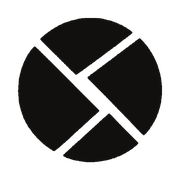
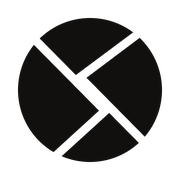
refactor(brand): rebuild the mark from geometry instead of tracing the glow
The previous version was traced from the original raster, which still carried
its neon glow. Ramer-Douglas-Peucker on a blurred edge produces exactly what you
would expect: arcs that are not quite circular, cuts that are not quite straight,
and vertices rounded by however far the glow bled. It read as untidy because it
was untidy.

This measures the design instead of copying its pixels. Fitting a circle to the
outer boundary gives a residual standard deviation of 1.01px, so the outline was
always meant to be a true circle. Clustering each fragment's edge pixels by
tangent direction recovers two straight cuts per piece; every fragment turns out
to share one cut direction (135.3 degrees) while the second splits into two
values 5.5 degrees apart -- that asymmetry is what makes it read as a pinwheel
rather than a pie chart, so it is kept.

Each piece is now the exact intersection of the circle with two half-planes:
a real arc, two real straight edges, a sharp vertex. Two things were tidied
because they were noise rather than intent: the four parallel cuts are snapped
to one shared angle, and the four gaps -- measured at 58.0, 59.0, 63.6 and 57.4
units -- are equalised.

Measured against the original silhouette the reconstruction scores 0.980 IoU,
so nothing about the composition moved. What changed is that the path data went
from 6,286 bytes of polygon soup to 397 bytes of four arcs, the inline page
weight dropped by 11.8KB, and it now stays crisp at any size instead of only
[…]

diff --git a/site/index.html b/site/index.html
@@ -46,7 +46,7 @@
 
     <header class="site-header" data-header>
       <a class="brand" href="#top" aria-label="Fragment home">
-        <svg class="mark" viewBox="0 0 64 64" width="28" height="28" fill="currentColor" aria-hidden="true"><path d="M7.2,12.7 7.56,12.7 7.8,12.82 8.77,13.79 8.89,13.79 9.13,14.03 9.13,14.16 9.86,14.88 9.98,14.88 10.22,15.12 10.22,15.24 10.71,15.73 10.83,15.73 11.31,16.21 11.31,16.33 11.67,16.7 11.8,16.7 12.4,17.3 12.4,17.42 12.64,17.66 12.76,17.66 13.37,18.27 13.37,18.39 13.61,18.63 13.73,18.63 35.99,40.89 36.11,41.13 35.99,41.5 35.39,42.1 35.27,42.1 34.18,43.19 34.06,43.19 33.45,43.8 33.33,43.8 32.85,44.28 32.85,44.4 32.73,44.4 32.24,44.88 32.12,44.88 31.76,45.37 31.64,45.37 30.55,46.46 30.43,46.46 29.34,47.55 29.22,47.55 28.73,48.15 28.61,48.15 27.52,49.24 27.4,49.24 26.31,50.33 26.19,50.33 21.72,54.56 21.6,54.56 20.75,55.41 20.63,55.41 17.72,58.07 17.6,58.07 16.27,59.16 15.55,59.04 15.18,58.68 15.06,58.68 14.82,58.43 14.58,58.43 13.01,57.22 12.64,57.1 11.92,56.38 11.43,56.14 8.17,52.99 8.17,52.87 6.47,51.05 6.35,50.69 5.87,50.21 5.63,49.72 4.42,48.15 4.29,47.67 3.45,46.46 3.33,45.97 2.36,44.16 2.24,43.55 2,43.19 2,42.95 1.88,42.83 1.88,42.59 1.75,42.47 1.75,42.22 1.63,42.1 1.63,41.86 1.27,41.01 1.15,40.17 1.03,40.05 0.91,39.32 0.79,39.2 0.79,38.71 0.54,38.23 0.54,37.63 0.42,37.5 0.42,36.54 0.3,36.42 0.3,34.96 0.18,34.84 0.18,32.91 0.06,32.79 0.06,32.06 0.18,31.94 0.18,29.76 0.3,29.64 0.3,28.07 0.42,27.95 0.42,26.98 0.54,26.86 0.54,26.37 0.67,26.25 0.67,25.89 0.79,25.77 0.91,24.8 1.15,24.32 1.15,23.95 1.27,23.83 1.27,23.47 1.39,23.35 1.39,22.99 1.51,22.87 1.75,21.9 2,21.53 2,21.29 2.36,20.57 2.48,19.96 2.72,19.72 2.72,19.48 3.33,18.51 3.45,17.91 3.69,17.66 4.05,16.82 4.29,16.57 4.42,16.09 4.9,15.61 5.75,14.28 7.2,12.7Z"/><path d="M53.9,9.07 54.26,9.07 55.71,10.53 55.71,10.65 56.56,11.49 56.56,11.61 57.04,12.1 57.04,12.22 57.65,12.82 58.01,13.55 58.62,14.16 58.74,14.64 59.34,15.36 59.46,15.73 59.83,16.21 59.95,16.7 60.31,17.06 60.43,17.54 60.79,18.03 60.79,18.27 61.4,19.36 61.4,19.6 61.64,19.96 61.64,20.2 62,20.93 62.12,21.53 62.37,21.9 62.37,22.26 62.73,23.11 62.73,23.59 62.85,23.71 62.97,24.44 63.21,24.92 63.21,25.41 63.33,25.53 63.46,26.5 63.58,26.62 63.7,28.43 63.82,28.55 63.82,29.76 63.94,29.88 63.94,34.36 63.82,34.48 63.82,35.69 63.7,35.81 63.58,37.63 63.46,37.75 63.46,38.23 63.33,38.35 63.21,39.2 62.97,39.68 62.97,40.05 62.73,40.53 62.73,40.89 62.61,41.01 62.25,42.34 61.88,42.95 61.64,43.92 60.43,46.34 59.95,46.94 59.71,47.55 58.86,48.64 58.62,49.24 57.04,51.05 57.04,51.18 56.68,51.54 56.56,51.54 56.2,51.9 56.2,52.02 55.71,52.02 55.35,51.66 55.23,51.66 53.66,50.09 53.66,49.97 53.29,49.6 53.17,49.6 52.08,48.39 51.96,48.39 51.96,48.27 50.87,47.18 50.87,47.06 50.03,46.34 50.03,46.22 43.98,40.05 43.98,39.92 43.74,39.68 43.61,39.68 43.01,39.08 43.01,38.96 42.04,38.11 42.04,37.99 40.11,36.05 40.11,35.93 39.86,35.69 39.74,35.69 39.14,35.09 39.14,34.96 38.41,34.24 38.29,34.24 38.17,34 34.06,29.88 34.06,29.76 33.81,29.64 33.09,28.91 33.09,28.79 32.85,28.67 32.12,27.95 32.12,27.83 31.88,27.71 31.15,26.98 30.91,26.5 31.03,26.25 31.4,25.89 31.88,25.65 32.36,25.04 33.33,24.56 33.81,24.08 34.78,23.47 35.39,22.87 35.75,22.74 36.48,22.02 37.2,21.66 37.69,21.17 38.65,20.57 39.26,19.96 39.62,19.84 40.35,19.12 41.07,18.75 42.04,17.91 42.53,17.66 43.13,17.06 43.61,16.82 44.22,16.21 44.95,15.85 45.43,15.36 45.55,15.36 45.91,15 46.52,14.64 47.12,14.03 47.49,13.91 48.09,13.31 48.82,12.95 49.91,11.98 50.39,11.74 50.99,11.13 51.72,10.77 52.08,10.4 52.08,10.28 52.81,9.92 53.9,9.07Z"/><path d="M29.58,0 35.27,0 35.39,0.12 36.6,0.12 36.72,0.24 37.32,0.24 37.44,0.36 37.81,0.36 37.93,0.48 38.29,0.48 38.41,0.6 38.78,0.6 38.9,0.73 39.26,0.73 39.38,0.85 40.35,0.97 40.47,1.09 40.83,1.09 41.32,1.33 41.68,1.33 42.28,1.69 42.53,1.69 43.37,2.06 43.74,2.06 43.98,2.3 44.46,2.42 44.95,2.66 45.19,2.9 45.79,3.02 46.52,3.39 47.12,3.87 47.61,3.99 48.94,4.96 49.54,5.2 50.75,6.29 50.75,6.65 50.63,6.9 50.51,6.9 49.78,7.62 49.18,7.98 48.7,8.47 48.21,8.71 47.73,9.19 47.24,9.44 42.89,12.82 42.53,12.95 41.8,13.67 41.68,13.67 40.47,14.64 39.98,14.88 39.5,15.36 39.38,15.36 36.6,17.54 36.11,17.78 35.63,18.27 35.15,18.51 33.69,19.72 33.33,19.84 32.73,20.45 32,20.81 29.7,22.62 29.34,22.74 28.61,23.47 28.25,23.59 26.07,25.16 25.59,25.16 24.02,23.59 23.89,23.59 23.29,22.99 23.29,22.87 23.05,22.62 22.93,22.62 22.56,22.26 22.56,22.14 21.96,21.53 21.84,21.53 21.35,21.05 21.35,20.93 20.99,20.57 20.87,20.57 20.39,20.08 20.39,19.96 20.02,19.6 19.9,19.6 19.3,18.99 19.3,18.87 18.81,18.39 18.69,18.39 18.33,18.03 18.33,17.91 17.84,17.42 17.72,17.42 17.36,17.06 17.36,16.94 17,16.57 16.88,16.57 16.27,15.97 16.27,15.85 16.03,15.73 10.34,10.04 10.34,9.92 9.98,9.56 9.98,9.32 10.1,9.07 10.83,8.35 10.95,8.35 12.4,7.02 12.88,6.78 13.49,6.17 14.22,5.81 15.06,5.08 15.67,4.84 16.39,4.23 17.12,3.99 18.33,3.15 18.93,3.02 20.51,2.18 20.75,2.18 20.87,2.06 21.11,2.06 21.23,1.94 22.93,1.45 23.29,1.21 23.65,1.21 23.77,1.09 24.14,1.09 24.26,0.97 24.74,0.97 24.86,0.85 25.71,0.73 25.83,0.6 26.56,0.48 26.68,0.36 27.28,0.36 27.4,0.24 28.01,0.24 28.13,0.12 29.46,0.12 29.58,0Z"/><path d="M40.35,42.47 40.59,42.47 40.83,42.71 40.95,42.71 42.4,44.16 42.4,44.28 43.25,45.01 43.25,45.13 44.95,46.82 44.95,46.94 45.55,47.55 45.67,47.55 45.91,47.79 45.91,47.91 53.29,55.29 53.41,55.77 52.69,56.62 52.57,56.62 52.08,57.1 51.96,57.1 51.48,57.59 51.36,57.59 50.75,58.19 50.39,58.31 50.15,58.56 50.03,58.56 49.06,59.28 48.45,59.52 47.85,60.01 46.52,60.61 46.03,60.98 45.79,60.98 45.19,61.34 44.34,61.58 43.49,62.06 43.25,62.06 42.89,62.31 42.04,62.43 41.56,62.67 41.19,62.67 40.47,63.03 39.98,63.03 39.86,63.15 39.38,63.15 39.26,63.27 38.78,63.27 38.65,63.4 38.05,63.4 37.93,63.52 37.2,63.52 37.08,63.64 36.6,63.64 36.48,63.76 35.75,63.76 35.63,63.88 34.3,63.88 34.18,64 30.06,64 29.94,63.88 28.85,63.88 28.73,63.76 28.01,63.76 27.89,63.64 27.28,63.64 27.16,63.52 25.71,63.4 25.59,63.27 24.62,63.15 23.77,62.79 23.41,62.79 22.68,62.43 22.32,62.43 22.2,62.31 21.6,62.19 21.11,61.82 20.51,61.58 20.14,61.22 20.26,60.73 20.51,60.49 20.63,60.49 21.35,59.64 21.47,59.64 23.65,57.59 23.77,57.59 24.5,56.74 24.86,56.62 25.59,55.77 26.07,55.53 26.8,54.68 27.28,54.44 30.31,51.54 30.43,51.54 32.6,49.48 32.73,49.48 33.33,48.76 33.45,48.76 34.54,47.67 34.66,47.67 35.27,47.06 35.27,46.94 35.75,46.7 36.48,45.85 36.96,45.61 37.57,44.88 37.69,44.88 38.29,44.28 38.41,44.28 40.35,42.47Z"/></svg>
+        <svg class="mark" viewBox="0 0 1000 1000" width="28" height="28" fill="currentColor" aria-hidden="true"><path d="M401.57 396.17L150.57 142.37A500 500 0 0 1 799.73 99.79Z"/><path d="M475.67 414.99L844.76 137.87A500 500 0 0 1 880.51 824.36Z"/><path d="M562.48 643.47L246.83 931.17A500 500 0 0 1 110.52 186.46Z"/><path d="M633.52 659.2L839.29 867.27A500 500 0 0 1 303.28 959.68Z"/></svg>
         <span>Fragment</span>
       </a>
       <nav aria-label="Primary navigation">
@@ -194,7 +194,7 @@
 
     <footer>
       <a class="brand" href="#top" aria-label="Back to top">
-        <svg class="mark" viewBox="0 0 64 64" width="24" height="24" fill="currentColor" aria-hidden="true"><path d="M7.2,12.7 7.56,12.7 7.8,12.82 8.77,13.79 8.89,13.79 9.13,14.03 9.13,14.16 9.86,14.88 9.98,14.88 10.22,15.12 10.22,15.24 10.71,15.73 10.83,15.73 11.31,16.21 11.31,16.33 11.67,16.7 11.8,16.7 12.4,17.3 12.4,17.42 12.64,17.66 12.76,17.66 13.37,18.27 13.37,18.39 13.61,18.63 13.73,18.63 35.99,40.89 36.11,41.13 35.99,41.5 35.39,42.1 35.27,42.1 34.18,43.19 34.06,43.19 33.45,43.8 33.33,43.8 32.85,44.28 32.85,44.4 32.73,44.4 32.24,44.88 32.12,44.88 31.76,45.37 31.64,45.37 30.55,46.46 30.43,46.46 29.34,47.55 29.22,47.55 28.73,48.15 28.61,48.15 27.52,49.24 27.4,49.24 26.31,50.33 26.19,50.33 21.72,54.56 21.6,54.56 20.75,55.41 20.63,55.41 17.72,58.07 17.6,58.07 16.27,59.16 15.55,59.04 15.18,58.68 15.06,58.68 14.82,58.43 14.58,58.43 13.01,57.22 12.64,57.1 11.92,56.38 11.43,56.14 8.17,52.99 8.17,52.87 6.47,51.05 6.35,50.69 5.87,50.21 5.63,49.72 4.42,48.15 4.29,47.67 3.45,46.46 3.33,45.97 2.36,44.16 2.24,43.55 2,43.19 2,42.95 1.88,42.83 1.88,42.59 1.75,42.47 1.75,42.22 1.63,42.1 1.63,41.86 1.27,41.01 1.15,40.17 1.03,40.05 0.91,39.32 0.79,39.2 0.79,38.71 0.54,38.23 0.54,37.63 0.42,37.5 0.42,36.54 0.3,36.42 0.3,34.96 0.18,34.84 0.18,32.91 0.06,32.79 0.06,32.06 0.18,31.94 0.18,29.76 0.3,29.64 0.3,28.07 0.42,27.95 0.42,26.98 0.54,26.86 0.54,26.37 0.67,26.25 0.67,25.89 0.79,25.77 0.91,24.8 1.15,24.32 1.15,23.95 1.27,23.83 1.27,23.47 1.39,23.35 1.39,22.99 1.51,22.87 1.75,21.9 2,21.53 2,21.29 2.36,20.57 2.48,19.96 2.72,19.72 2.72,19.48 3.33,18.51 3.45,17.91 3.69,17.66 4.05,16.82 4.29,16.57 4.42,16.09 4.9,15.61 5.75,14.28 7.2,12.7Z"/><path d="M53.9,9.07 54.26,9.07 55.71,10.53 55.71,10.65 56.56,11.49 56.56,11.61 57.04,12.1 57.04,12.22 57.65,12.82 58.01,13.55 58.62,14.16 58.74,14.64 59.34,15.36 59.46,15.73 59.83,16.21 59.95,16.7 60.31,17.06 60.43,17.54 60.79,18.03 60.79,18.27 61.4,19.36 61.4,19.6 61.64,19.96 61.64,20.2 62,20.93 62.12,21.53 62.37,21.9 62.37,22.26 62.73,23.11 62.73,23.59 62.85,23.71 62.97,24.44 63.21,24.92 63.21,25.41 63.33,25.53 63.46,26.5 63.58,26.62 63.7,28.43 63.82,28.55 63.82,29.76 63.94,29.88 63.94,34.36 63.82,34.48 63.82,35.69 63.7,35.81 63.58,37.63 63.46,37.75 63.46,38.23 63.33,38.35 63.21,39.2 62.97,39.68 62.97,40.05 62.73,40.53 62.73,40.89 62.61,41.01 62.25,42.34 61.88,42.95 61.64,43.92 60.43,46.34 59.95,46.94 59.71,47.55 58.86,48.64 58.62,49.24 57.04,51.05 57.04,51.18 56.68,51.54 56.56,51.54 56.2,51.9 56.2,52.02 55.71,52.02 55.35,51.66 55.23,51.66 53.66,50.09 53.66,49.97 53.29,49.6 53.17,49.6 52.08,48.39 51.96,48.39 51.96,48.27 50.87,47.18 50.87,47.06 50.03,46.34 50.03,46.22 43.98,40.05 43.98,39.92 43.74,39.68 43.61,39.68 43.01,39.08 43.01,38.96 42.04,38.11 42.04,37.99 40.11,36.05 40.11,35.93 39.86,35.69 39.74,35.69 39.14,35.09 39.14,34.96 38.41,34.24 38.29,34.24 38.17,34 34.06,29.88 34.06,29.76 33.81,29.64 33.09,28.91 33.09,28.79 32.85,28.67 32.12,27.95 32.12,27.83 31.88,27.71 31.15,26.98 30.91,26.5 31.03,26.25 31.4,25.89 31.88,25.65 32.36,25.04 33.33,24.56 33.81,24.08 34.78,23.47 35.39,22.87 35.75,22.74 36.48,22.02 37.2,21.66 37.69,21.17 38.65,20.57 39.26,19.96 39.62,19.84 40.35,19.12 41.07,18.75 42.04,17.91 42.53,17.66 43.13,17.06 43.61,16.82 44.22,16.21 44.95,15.85 45.43,15.36 45.55,15.36 45.91,15 46.52,14.64 47.12,14.03 47.49,13.91 48.09,13.31 48.82,12.95 49.91,11.98 50.39,11.74 50.99,11.13 51.72,10.77 52.08,10.4 52.08,10.28 52.81,9.92 53.9,9.07Z"/><path d="M29.58,0 35.27,0 35.39,0.12 36.6,0.12 36.72,0.24 37.32,0.24 37.44,0.36 37.81,0.36 37.93,0.48 38.29,0.48 38.41,0.6 38.78,0.6 38.9,0.73 39.26,0.73 39.38,0.85 40.35,0.97 40.47,1.09 40.83,1.09 41.32,1.33 41.68,1.33 42.28,1.69 42.53,1.69 43.37,2.06 43.74,2.06 43.98,2.3 44.46,2.42 44.95,2.66 45.19,2.9 45.79,3.02 46.52,3.39 47.12,3.87 47.61,3.99 48.94,4.96 49.54,5.2 50.75,6.29 50.75,6.65 50.63,6.9 50.51,6.9 49.78,7.62 49.18,7.98 48.7,8.47 48.21,8.71 47.73,9.19 47.24,9.44 42.89,12.82 42.53,12.95 41.8,13.67 41.68,13.67 40.47,14.64 39.98,14.88 39.5,15.36 39.38,15.36 36.6,17.54 36.11,17.78 35.63,18.27 35.15,18.51 33.69,19.72 33.33,19.84 32.73,20.45 32,20.81 29.7,22.62 29.34,22.74 28.61,23.47 28.25,23.59 26.07,25.16 25.59,25.16 24.02,23.59 23.89,23.59 23.29,22.99 23.29,22.87 23.05,22.62 22.93,22.62 22.56,22.26 22.56,22.14 21.96,21.53 21.84,21.53 21.35,21.05 21.35,20.93 20.99,20.57 20.87,20.57 20.39,20.08 20.39,19.96 20.02,19.6 19.9,19.6 19.3,18.99 19.3,18.87 18.81,18.39 18.69,18.39 18.33,18.03 18.33,17.91 17.84,17.42 17.72,17.42 17.36,17.06 17.36,16.94 17,16.57 16.88,16.57 16.27,15.97 16.27,15.85 16.03,15.73 10.34,10.04 10.34,9.92 9.98,9.56 9.98,9.32 10.1,9.07 10.83,8.35 10.95,8.35 12.4,7.02 12.88,6.78 13.49,6.17 14.22,5.81 15.06,5.08 15.67,4.84 16.39,4.23 17.12,3.99 18.33,3.15 18.93,3.02 20.51,2.18 20.75,2.18 20.87,2.06 21.11,2.06 21.23,1.94 22.93,1.45 23.29,1.21 23.65,1.21 23.77,1.09 24.14,1.09 24.26,0.97 24.74,0.97 24.86,0.85 25.71,0.73 25.83,0.6 26.56,0.48 26.68,0.36 27.28,0.36 27.4,0.24 28.01,0.24 28.13,0.12 29.46,0.12 29.58,0Z"/><path d="M40.35,42.47 40.59,42.47 40.83,42.71 40.95,42.71 42.4,44.16 42.4,44.28 43.25,45.01 43.25,45.13 44.95,46.82 44.95,46.94 45.55,47.55 45.67,47.55 45.91,47.79 45.91,47.91 53.29,55.29 53.41,55.77 52.69,56.62 52.57,56.62 52.08,57.1 51.96,57.1 51.48,57.59 51.36,57.59 50.75,58.19 50.39,58.31 50.15,58.56 50.03,58.56 49.06,59.28 48.45,59.52 47.85,60.01 46.52,60.61 46.03,60.98 45.79,60.98 45.19,61.34 44.34,61.58 43.49,62.06 43.25,62.06 42.89,62.31 42.04,62.43 41.56,62.67 41.19,62.67 40.47,63.03 39.98,63.03 39.86,63.15 39.38,63.15 39.26,63.27 38.78,63.27 38.65,63.4 38.05,63.4 37.93,63.52 37.2,63.52 37.08,63.64 36.6,63.64 36.48,63.76 35.75,63.76 35.63,63.88 34.3,63.88 34.18,64 30.06,64 29.94,63.88 28.85,63.88 28.73,63.76 28.01,63.76 27.89,63.64 27.28,63.64 27.16,63.52 25.71,63.4 25.59,63.27 24.62,63.15 23.77,62.79 23.41,62.79 22.68,62.43 22.32,62.43 22.2,62.31 21.6,62.19 21.11,61.82 20.51,61.58 20.14,61.22 20.26,60.73 20.51,60.49 20.63,60.49 21.35,59.64 21.47,59.64 23.65,57.59 23.77,57.59 24.5,56.74 24.86,56.62 25.59,55.77 26.07,55.53 26.8,54.68 27.28,54.44 30.31,51.54 30.43,51.54 32.6,49.48 32.73,49.48 33.33,48.76 33.45,48.76 34.54,47.67 34.66,47.67 35.27,47.06 35.27,46.94 35.75,46.7 36.48,45.85 36.96,45.61 37.57,44.88 37.69,44.88 38.29,44.28 38.41,44.28 40.35,42.47Z"/></svg>
+        <svg class="mark" viewBox="0 0 1000 1000" width="24" height="24" fill="currentColor" aria-hidden="true"><path d="M401.57 396.17L150.57 142.37A500 500 0 0 1 799.73 99.79Z"/><path d="M475.67 414.99L844.76 137.87A500 500 0 0 1 880.51 824.36Z"/><path d="M562.48 643.47L246.83 931.17A500 500 0 0 1 110.52 186.46Z"/><path d="M633.52 659.2L839.29 867.27A500 500 0 0 1 303.28 959.68Z"/></svg>
         <span>Fragment</span>
       </a>
       <p>
